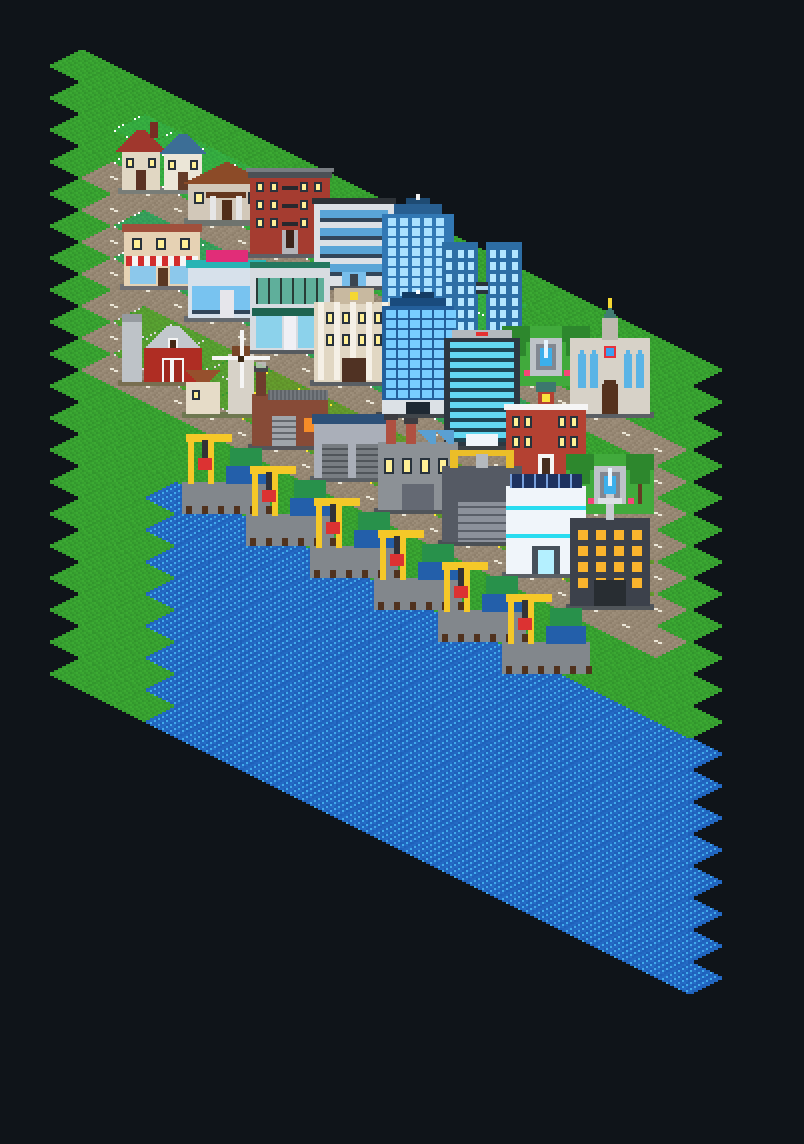
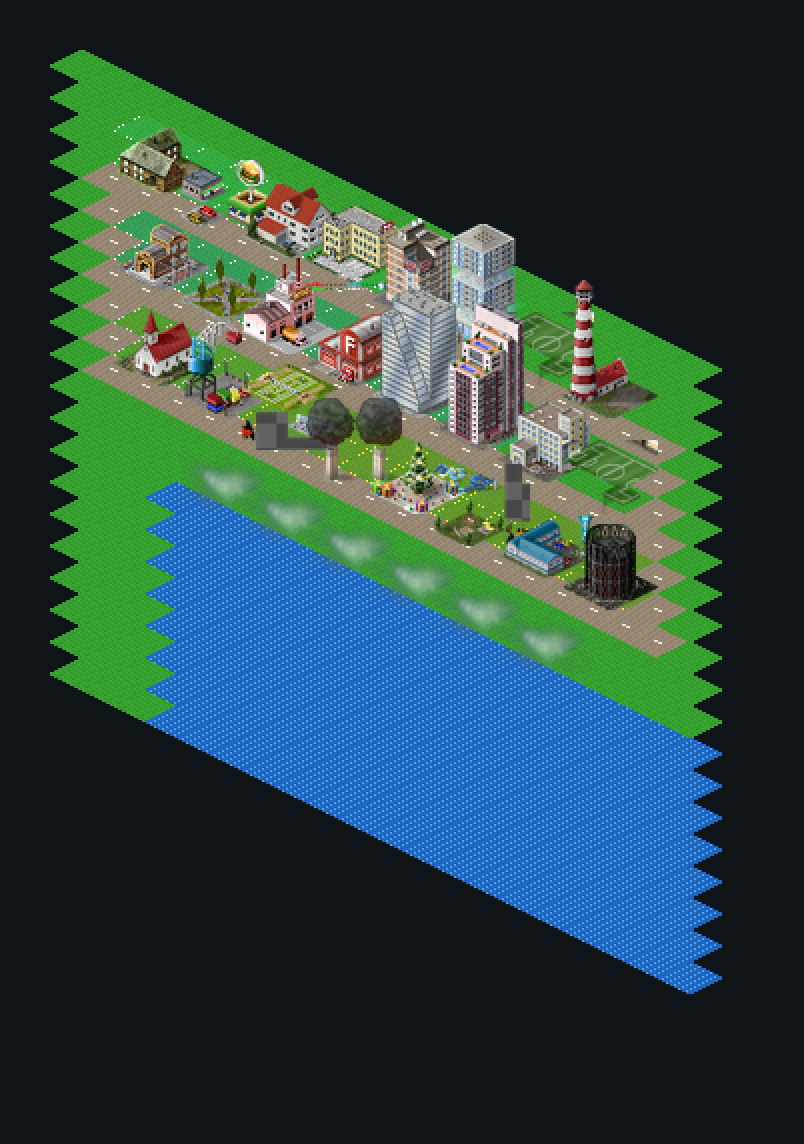
feat: integrate authentic original TheoTown pixel art sprites across all building tiers

Changed region(s): [[0.1244, 0.0918, 0.8396, 0.6119]]

diff --git a/tools/install_theotown_sprites.py b/tools/install_theotown_sprites.py
@@ -1,0 +1,79 @@
+import os
+import shutil
+from PIL import Image
+
+out_dir = 'extracted_theotown'
+sprites_dir = 'assets/sprites'
+
+mapping = {
+    # 1. Residential
+    'res_t1_v1': 'world_1024_0_005_63x43.png',    # Suburban Cottages v1
+    'res_t1_v2': 'world_1024_0_011_63x43.png',    # Bungalow Homestead v2
+    'res_t2_v1': 'world_1024_0_018_63x49.png',    # Brick Brownstone Apartments v1
+    'res_t2_v2': 'world_1024_0_025_63x55.png',    # Urban Condominiums v2
+    'res_t3_v1': 'world_1024_0_046_95x103.png',   # Highrise Luxury Tower v1
+    'res_t3_v2': 'world_1024_0_073_95x129.png',   # Twin Highrise Plaza v2
+    
+    # 2. Commercial
+    'com_t1_v1': 'world_0_1024_013_63x43.png',    # Corner Grocery Store v1
+    'com_t1_v2': 'world_1024_1024_008_63x43.png', # Local Diner & Mini Mart v2
+    'com_t2_v1': 'world_0_1024_000_63x63.png',    # Shopping Plaza Arcade v1
+    'com_t2_v2': 'world_1024_1024_002_63x47.png', # Department Store v2
+    'com_t3_v1': 'world_1024_0_048_95x131.png',   # Corporate Banking Highrise v1
+    'com_t3_v2': 'world_1024_0_055_95x147.png',   # International Financial Center v2
+    
+    # 3. Industrial
+    'ind_t1_v1': 'world_1024_1024_046_61x55.png', # Scrap Workshop & Depot v1
+    'ind_t1_v2': 'world_0_1024_019_63x55.png',    # Warehouse & Loading Dock v2
+    'ind_t2_v1': 'world_1024_1024_038_63x47.png', # Manufacturing Plant v1
+    'ind_t2_v2': 'world_1024_1024_044_85x73.png', # Heavy Assembly Facility v2
+    'ind_t3_v1': 'world_1024_0_045_95x61.png',    # Microchip Clean-Fab v1
+    'ind_t3_v2': 'world_0_1024_007_95x85.png',    # Robotics Automation Hub v2
+    
+    # 4. Agricultural Farms
+    'farm_v1':   'world_1024_1024_036_95x77.png', # Red Barn & Grain Silo v1
+    'farm_v2':   'world_0_1024_006_63x63.png',    # Old Dutch Windmill Homestead v2
+    
+    # 5. Civics & Maritime
+    'church':    'world_1024_1024_034_63x91.png', # Gothic Cathedral with Bell Tower Steeple
+    'school':    'world_1024_1024_016_95x79.png', # Elementary School & Courtyard
+    'park':      'world_1024_1024_042_105x81.png',# Grand Nature Park with Trees & Pathway
+    'harbour':   'world_0_1024_033_85x57.png',    # Shoreline Harbour Port with Cranes & Pier
+}
+
+# Aliases
+mapping['residental'] = mapping['res_t1_v1']
+mapping['commercial'] = mapping['com_t1_v1']
+mapping['industrial'] = mapping['ind_t1_v1']
+mapping['farm']       = mapping['farm_v1']
+
+print(f"Installing {len(mapping)} genuine TheoTown building sprites to {sprites_dir}...")
+
+for key, fname in mapping.items():
+    src_path = os.path.join(out_dir, fname)
+    if not os.path.exists(src_path):
+        print(f"ERROR: missing source file {src_path}")
+        continue
+    src = Image.open(src_path).convert('RGBA')
+    w = 48
+    h = int(round(src.height * (48.0 / src.width)))
+    resized = src.resize((w, h), Image.LANCZOS)
+    
+    final_h = max(44, h)
+    canvas = Image.new('RGBA', (48, final_h), (0, 0, 0, 0))
+    # Bottom align
+    canvas.paste(resized, (0, final_h - h))
+    
+    dst_path = os.path.join(sprites_dir, f"{key}.png")
+    canvas.save(dst_path)
+    print(f"  Installed {key}.png (src: {fname}, size: {w}x{final_h})")
+
+# Also copy to build/assets/sprites if build directory exists
+build_sprites_dir = 'build/assets/sprites'
+if os.path.exists(build_sprites_dir):
+    for f in os.listdir(sprites_dir):
+        if f.endswith('.png'):
+            shutil.copy2(os.path.join(sprites_dir, f), os.path.join(build_sprites_dir, f))
+    print(f"Synchronized sprites to {build_sprites_dir}")
+
+print("Installation complete!")
